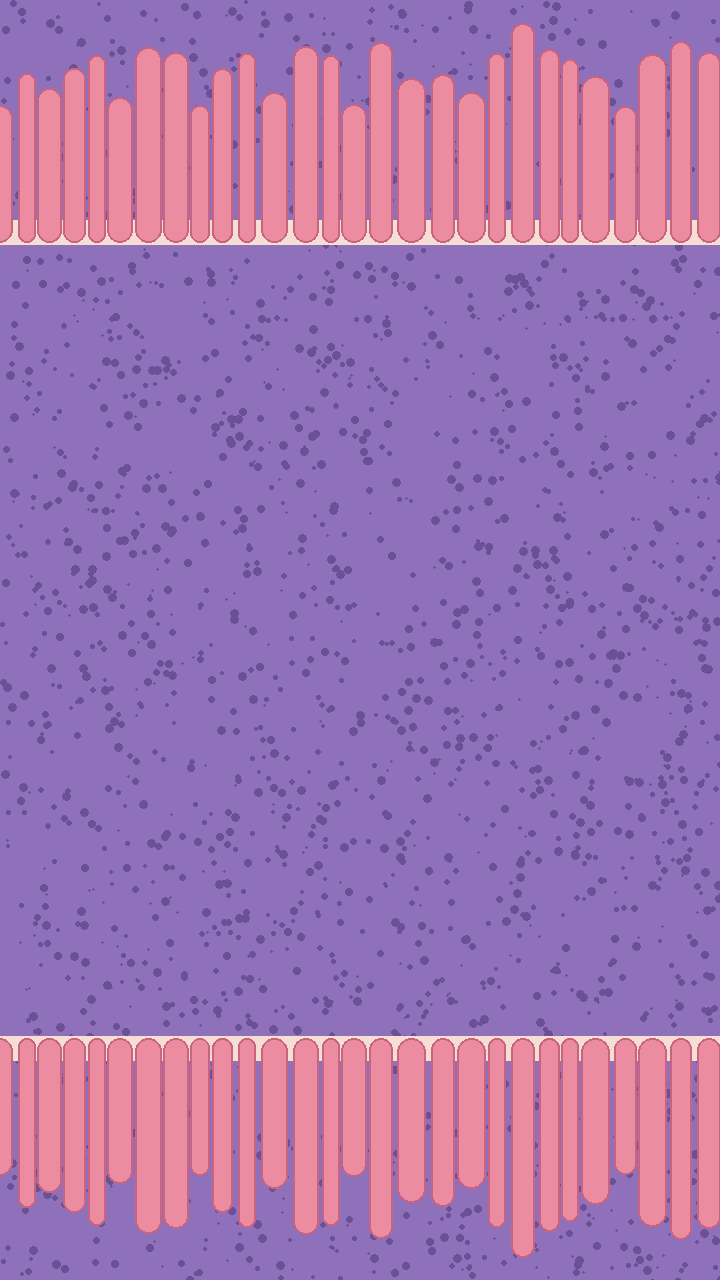
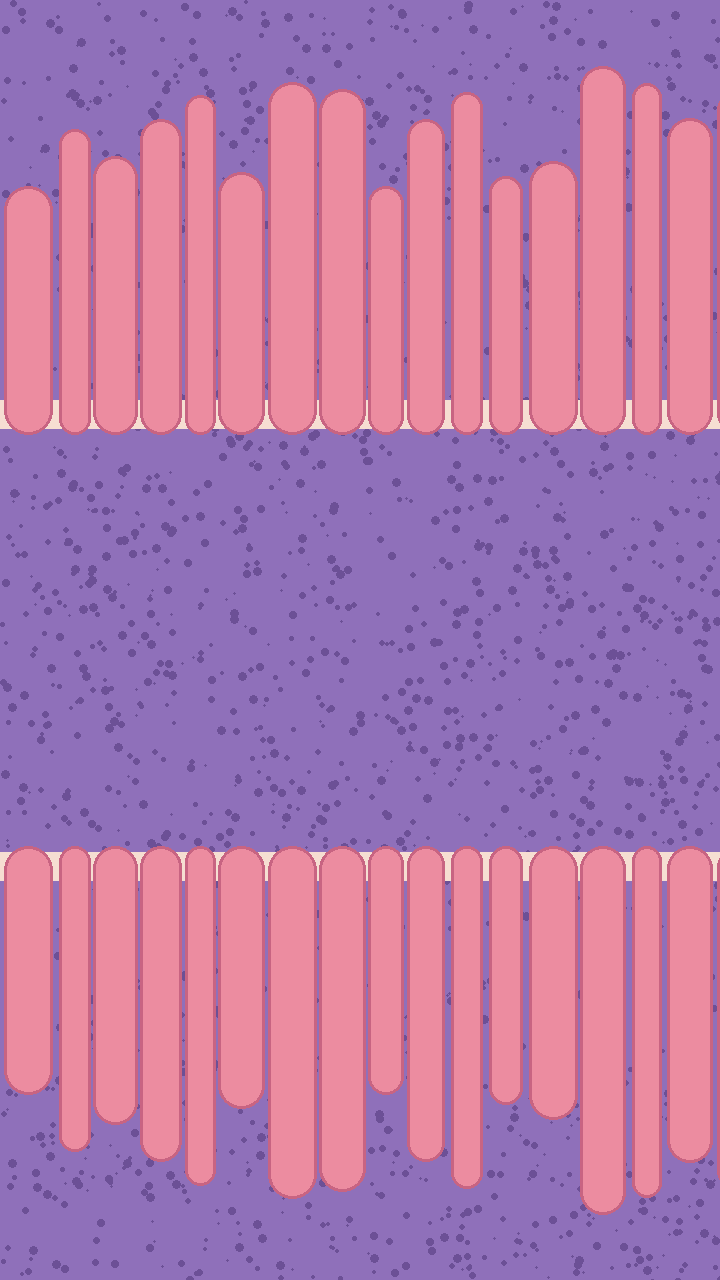
fix(assets): lengthen pipes and enlarge gut folds
Pipe columns are now full playfield height so tops reach the ceiling,
and bg/ground villi fringes are deeper so folds match the 720x1280 field.

diff --git a/tests/assets.test.js b/tests/assets.test.js
@@ -2,6 +2,7 @@ import { test } from 'node:test';
 import assert from 'node:assert/strict';
 import { readFileSync, readdirSync, existsSync, statSync } from 'node:fs';
 import { join } from 'node:path';
+import { GAME_WIDTH, GAME_HEIGHT } from '../src/config.js';
 
 const root = new URL('..', import.meta.url).pathname;
 
@@ -99,4 +100,14 @@ test('every file under assets/sfx/ is named in CREDITS.md with a URL', () => {
     assert.match(credits, new RegExp(name.replace(/[.*+?^${}()|[\]\\]/g, '\\$&')), `${name} is not named in CREDITS.md`);
   }
   assert.match(credits, /https?:\/\/\S+/, 'CREDITS.md has no URL');
+});
+
+test('pipe.png is at least the playfield tall so flipped tops reach the ceiling', () => {
+  const pipe = pngSize(join(root, 'assets/pipe.png'));
+  assert.ok(pipe.h >= GAME_HEIGHT, `pipe height ${pipe.h} < GAME_HEIGHT ${GAME_HEIGHT}`);
+});
+
+test('bg.png matches the logical playfield exactly (no vertical tiling)', () => {
+  const bg = pngSize(join(root, 'assets/bg.png'));
+  assert.deepEqual({ w: bg.w, h: bg.h }, { w: GAME_WIDTH, h: GAME_HEIGHT });
 });

diff --git a/tools/make_placeholders.py b/tools/make_placeholders.py
@@ -50,8 +50,12 @@ def poop(path, size=48):
     img.save(path)
 
 
-def pipe(path, w=128, h=960, cap_h=56):
-    """Pink Mario-style column. Cap at the TOP; the scene flips it for the bottom pipe."""
+def pipe(path, w=128, h=1280, cap_h=56):
+    """Pink Mario-style column. Cap at the TOP; the scene flips it for the bottom pipe.
+
+    Height must be >= the playfield (720x1280) so a flipped top pipe always
+    reaches the ceiling when the gap sits low.
+    """
     img = Image.new("RGBA", (w, h), (0, 0, 0, 0))
     d = ImageDraw.Draw(img)
     # body with simple shading stripes
@@ -69,14 +73,14 @@ def villi_band(d, x0, x1, y_base, height, up, rng):
     """Draw a fringe of finger-like villi between x0..x1. up=True grows upward from y_base."""
     x = x0
     while x < x1:
-        w = rng.randint(16, 28)
+        w = rng.randint(28, 48)
         h = int(height * rng.uniform(0.55, 1.0))
         if up:
-            box = (x, y_base - h, x + w, y_base + 12)
+            box = (x, y_base - h, x + w, y_base + 20)
         else:
-            box = (x, y_base - 12, x + w, y_base + h)
-        d.rounded_rectangle(box, radius=w // 2, fill=VILLI, outline=VILLI_DARK, width=2)
-        x += w + rng.randint(2, 6)
+            box = (x, y_base - 20, x + w, y_base + h)
+        d.rounded_rectangle(box, radius=w // 2, fill=VILLI, outline=VILLI_DARK, width=3)
+        x += w + rng.randint(3, 8)
 
 
 def bg(path, w=720, h=1280):
@@ -88,20 +92,25 @@ def bg(path, w=720, h=1280):
         x, y = rng.randrange(w), rng.randrange(h)
         r = rng.randint(2, 8)
         d.ellipse((x, y, x + r, y + r), fill=PURPLE_DARK)
-    # cream crypt lines at the band edges
-    d.rectangle((0, 220, w, 244), fill=CREAM)
-    d.rectangle((0, h - 244, w, h - 220), fill=CREAM)
+    # Deep fringes (~400px) so folds read at the 720x1280 scale
+    fringe = 400
+    cream_h = 28
+    top_base = fringe + cream_h // 2
+    bot_base = h - fringe - cream_h // 2
+    d.rectangle((0, top_base - cream_h // 2, w, top_base + cream_h // 2), fill=CREAM)
+    d.rectangle((0, bot_base - cream_h // 2, w, bot_base + cream_h // 2), fill=CREAM)
     # villi fringes (drawn wider than the image so the horizontal tile edge matches)
-    villi_band(d, -40, w + 40, 230, 220, up=True, rng=random.Random(7))
-    villi_band(d, -40, w + 40, h - 230, 220, up=False, rng=random.Random(7))
+    villi_band(d, -40, w + 40, top_base, fringe, up=True, rng=random.Random(7))
+    villi_band(d, -40, w + 40, bot_base, fringe, up=False, rng=random.Random(7))
     img.save(path)
 
 
 def ground(path, w=720, h=128):
     img = Image.new("RGBA", (w, h), VILLI_DARK)
     d = ImageDraw.Draw(img)
-    d.rectangle((0, 0, w, 12), fill=CREAM)
-    villi_band(d, -40, w + 40, 16, 112, up=False, rng=random.Random(11))
+    d.rectangle((0, 0, w, 16), fill=CREAM)
+    # Fill most of the strip with larger villi fingers
+    villi_band(d, -40, w + 40, 20, 108, up=False, rng=random.Random(11))
     img.save(path)
 
 
@@ -120,8 +129,11 @@ def icon(path, size):
 
 if __name__ == "__main__":
     # poop.png is Michael's drawing (tools/process_art.py). Do not overwrite it.
-    icon(OUT / "icon-192.png", 192)
-    icon(OUT / "icon-512.png", 512)
+    # Icons are only rebuilt when missing so redrawn gameplay art is not clobbered.
+    for name, size in (("icon-192.png", 192), ("icon-512.png", 512)):
+        path = OUT / name
+        if not path.exists():
+            icon(path, size)
     pipe(OUT / "pipe.png")
     bg(OUT / "bg.png")
     ground(OUT / "ground.png")

diff --git a/assets/README.md b/assets/README.md
@@ -13,8 +13,8 @@ The player and items are Michael's drawings. Put a new source PNG in `assets/src
 | `fiber.png` | 384x384 | Bonus +1 pickup | Transparent background, subject centred. Drawn at 0.25 scale. Hitbox is a 32 px circle. Source: `assets/src/Fiber.png`. |
 | `probiotic.png` | 384x384 | Good bacteria (5-pipe shield vs bad bacteria) | Same hitbox. Source: `assets/src/Good_Bacteria.png`. |
 | `bacteria.png` | 384x384 | Bad bacteria (−2) | Same hitbox. Hair / flagellum are visual-only. Source: `assets/src/Bad_Bacteria.png`. |
-| `pipe.png` | 128x960 | One intestinal-fold pipe | Cap at the **top**; the game flips it vertically for the bottom pipe. Only the top ~600 px are ever visible, but keep the full height so the column always reaches the screen edge. |
-| `bg.png` | 720x1280 | Gut-wall background | Scrolls slowly; must tile **horizontally** (left edge continues into right edge). Pink villi fringe top and bottom, mucosa in the middle. |
+| `pipe.png` | 128x1280 | One intestinal-fold pipe | Cap at the **top**; the game flips it vertically for the bottom pipe. Height must be **at least the playfield height** (1280) so a flipped top pipe always reaches the ceiling when the gap sits low. |
+| `bg.png` | 720x1280 | Gut-wall background | Exact playfield size. Scrolls slowly; must tile **horizontally** (left edge continues into right edge). Deep pink villi fringe top and bottom, mucosa in the middle. |
 | `ground.png` | 720x128 | Scrolling floor strip | Must tile horizontally. Drawn at the bottom of the screen on top of `bg.png`. |
 | `icon-192.png` | 192x192 | Home-screen icon | Referenced by `manifest.webmanifest`. Keep the subject inside the central 80 % so maskable icons don't crop it. |
 | `icon-512.png` | 512x512 | Home-screen icon (large) | Same drawing as `icon-192.png`. Also used as the Apple touch icon. |
